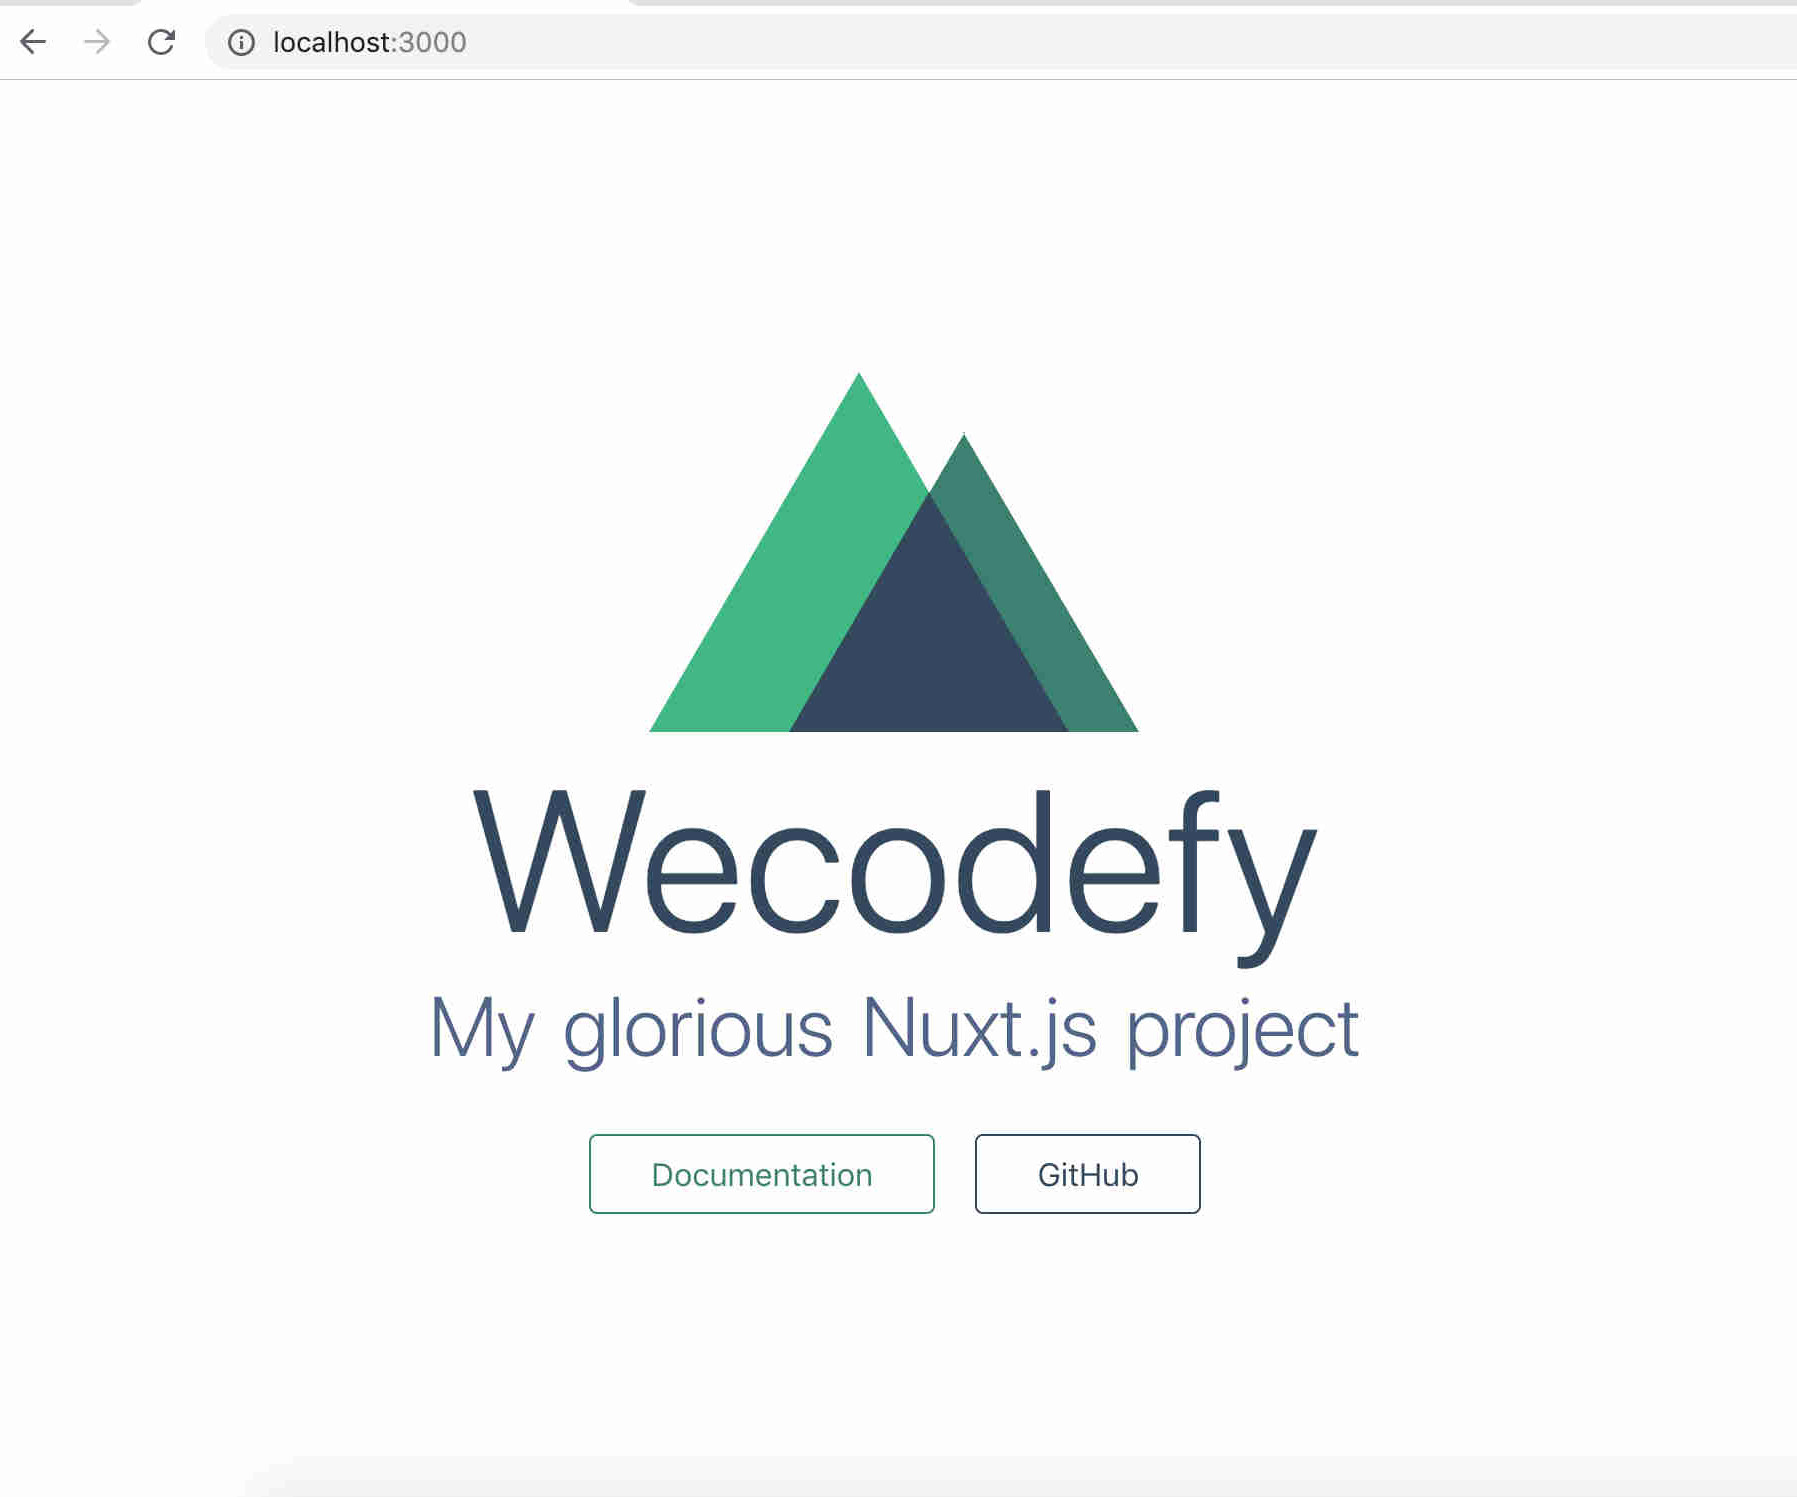
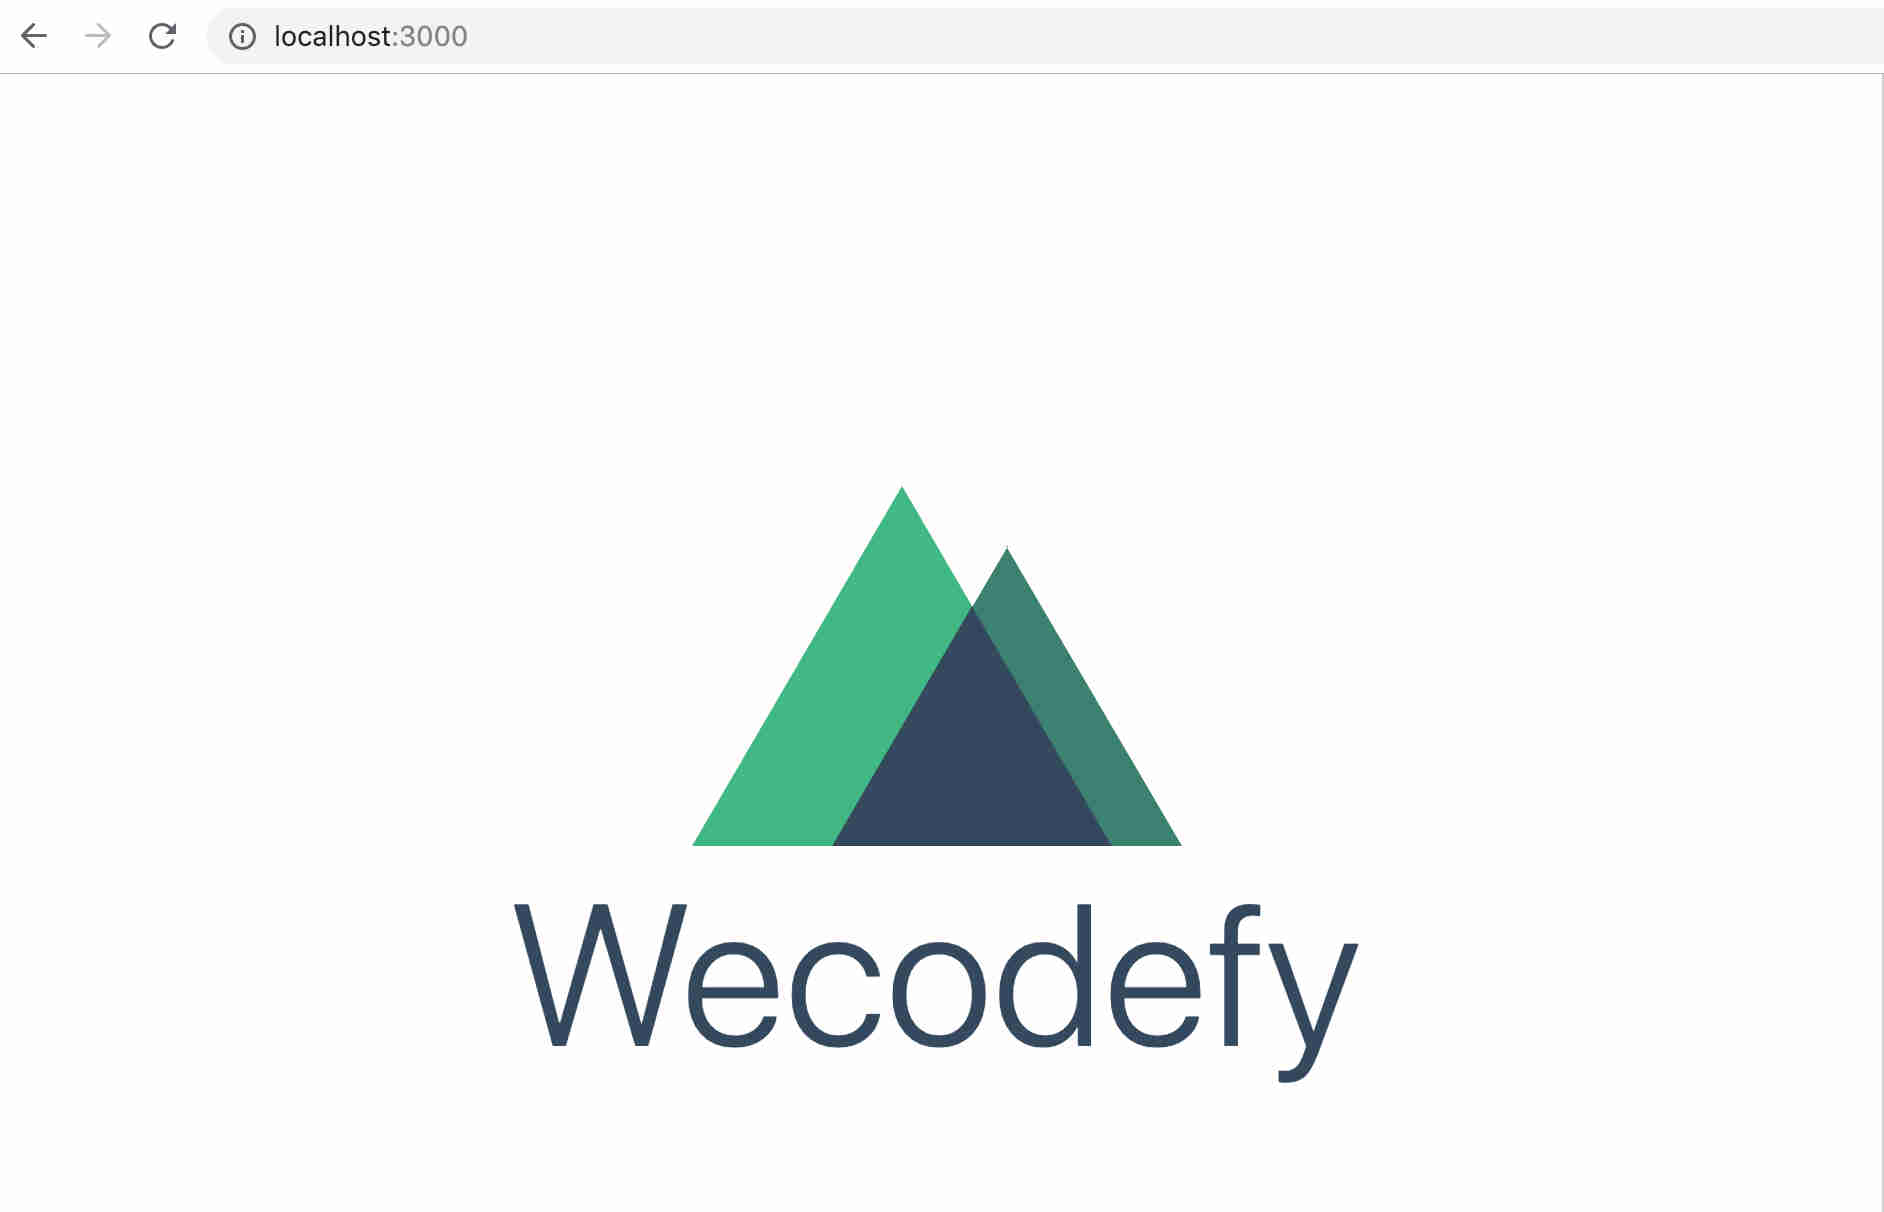
Installation workshop nuxt1

diff --git a/pages/index.vue b/pages/index.vue
@@ -1,82 +1,20 @@
 <template>
   <section class="container">
     <div>
-      <img src="~/assets/images/wecodefy-logo.png" >
+      <logo/>
       <h1 class="title">
-        Tu música en resumen
+        Wecodefy
       </h1>
-      <div class="links">
-        <a
-          href="https://nuxtjs.org/"
-          target="_blank"
-          class="button--green">Documentation</a>
-        <a
-          href="https://github.com/nuxt/nuxt.js"
-          target="_blank"
-          class="button--grey">GitHub</a>
-      </div>
     </div>
   </section>
 </template>
 
 <script>
-const SpotifyWebApi = require('spotify-web-api-js');
-const spotifyApi = new SpotifyWebApi()
+import Logo from '~/components/Logo.vue'
 
 export default {
-
-  mounted() {
-    // https://gist.github.com/igorPhelype/68239ecab9afcc50230ce0c61c3bac2f
-    const callback_url = window.location.href
-    const client_id = '9ce0744ff4a04334966cbcf3fb7e312d'
-    const api_url = `https://accounts.spotify.com/authorize?client_id=${client_id}&response_type=token&redirect_uri=${callback_url}`;
-    let access_token
-    let hash
-    if(!window.location.hash) {
-        window.location.replace(api_url)
-    } else {
-        const url = window.location.href
-        hash = url.split('#')[1]
-        hash = hash.split('&')[0]
-        hash = hash.split('=')[1]
-    }
-    access_token = hash
-    if (access_token) {
-      spotifyApi.setAccessToken(access_token)
-    }
-    // Get Elvis' albums (initial test)
-    spotifyApi.getArtistAlbums('43ZHCT0cAZBISjO8DG9PnE').then(
-      function(data) {
-        console.log('Artist albums', data.items)
-      },
-      function(err) {
-        console.error(err)
-      }
-    )
-    // Get my top Artists
-    spotifyApi.getMyTopArtists({
-      limit: 5,
-      time_range: 'medium_term'
-    }).then(
-      function(data) {
-        console.log('getMyTopArtists', data)
-      },
-      function(err) {
-        console.error(err)
-      }
-    )
-    // Get my top tracks
-    spotifyApi.getMyTopTracks({
-      limit: 5,
-      time_range: 'medium_term'
-    }).then(
-      function(data) {
-        console.log('getMyTopTracks', data)
-      },
-      function(err) {
-        console.error(err)
-      }
-    )
+  components: {
+    Logo
   }
 }
 </script>
@@ -99,17 +37,5 @@ export default {
   font-size: 100px;
   color: #35495e;
   letter-spacing: 1px;
-}
-
-.subtitle {
-  font-weight: 300;
-  font-size: 42px;
-  color: #526488;
-  word-spacing: 5px;
-  padding-bottom: 15px;
-}
-
-.links {
-  padding-top: 15px;
 }
 </style>

diff --git a/README.md b/README.md
@@ -1,153 +1,49 @@
 # Taller Nuxt
 
+> Pasos y código para crear una aplicación web con Nuxt.js.
+
+En este taller se va a crear una aplicación similar a [Spotify Wrapped](https://spotifywrapped.com/es/), mostrándote tus canciones y artistas más escuchados en Spotify. Para ello se van a adaptar estas 3 páginas:
+
+![Imagen página inicial desktop](md-images/home-desktop-hover.button.jpg?raw=true)
+
+![Imagen página 4/8](md-images/4-8-desktop.jpg?raw=true)
+
+![Imagen página 8/8](md-images/8-8-desktop.jpg?raw=true)
+
+## Pasos:
+
+- Paso 1) Creación del layout de la aplicación con datos ficticios.
+- Paso 2) Conexión con el API de Spotify para recoger datos reales.
+- Paso 3) Despliegue de la aplicación.
+
 ## Previo al taller
 
-En el taller realizaremos 3 pasos:
+### 1) Crear una aplicación en Spotify
+- Visitar https://developer.spotify.com/dashboard/.
+- Iniciar sesión con tu cuenta de Spotify y crear un `Client ID`. Copiar el Client ID para usarlo en el taller.
+- Editar settings dentro de la aplicación creada y añadir como Redirect URIs: `http://localhost:3000/`
+- Guardar los cambios.
 
-1. Creación de aplicación sin conectar a ningún API.
-2. Conexión a API Spotify para recoger datos reales.
-3. Despliegue de la aplicación para comprobar SEO y meta tags al compartir la aplicación en Twitter.
+### 2)  Instalar herramientas
+- Instalar [npm](https://www.npmjs.com/get-npm).
+- Crear cuenta en [GitHub](https://github.com/).
+- Instalar [Git](https://tutorial.djangogirls.org/es/installation/#instalar-git).
+- Instalar un editor de código (ej. [Visual Studio Code](https://code.visualstudio.com/)). Instalar extensión [Vetur](https://github.com/vuejs/vetur) o similar para programar con Vue.
+- Instalar la extensión de Chrome [Vue.js devtools](https://chrome.google.com/webstore/detail/vuejs-devtools/nhdogjmejiglipccpnnnanhbledajbpd?hl=en).
 
-Puedes instalarte sólo lo necesario para el primer paso, con ello tendrás una idea de cómo crear una aplicación con Nuxt. El resto de pasos nos servirán para ver casos de uso con Nuxt.
+### 3) Bajar el proyecto
+- Clonar el repositorio en local: `git clone https://github.com/cristinafsanz/taller-nuxt.git`
+- Entrar en el proyecto: `cd taller-nuxt`
+- Situarse en la rama de inicio del taller: `git checkout nuxt1`
+- Instalar las dependencias: `npm install`
 
-### Instalación Paso 1
+### 4)  Arrancar la aplicación
+- Arrancar el servidor: `npm run dev`
+- Abrir la aplicación en el navegador: http://localhost:3000
+- Deberías ver una aplicación como ésta:
 
-- Tener instalado [npx](https://www.npmjs.com/package/npx) o [yarn](https://yarnpkg.com/en/). Yo usaré el primero para el taller.
+![Página inicial](md-images/home-page.jpg?raw=true)
 
-- Tener instalado un editor de código (ej. [Visual Studio Code](https://code.visualstudio.com/)). Recomendable instalar extensión [Vetur](https://github.com/vuejs/vetur) o similar para ayudar al programar en Vue.
+### Nota
 
-- Recomendable: Tener instalada la extensión de Chrome [Vue.js devtools](https://chrome.google.com/webstore/detail/vuejs-devtools/nhdogjmejiglipccpnnnanhbledajbpd?hl=en).
-
-#### Crear la aplicación
-
-Se va a usar la herramienta de scaffolding [create-nuxt-app](https://nuxtjs.org/guide/installation/#using-code-create-nuxt-app-code-).
-
-- Ejecutar:
-
-  ```
-  $ npx create-nuxt-app Wecodefy
-  ```
-
-- Ejemplo de elecciones al crear el proyecto:
-    ```
-    - Project name: Wecodefy
-    - Project description: My glorious Nuxt.js project
-    - Use a custom server framework: none
-    - Use a custom UI framework: none
-    - Choose rendering mode: Universal
-    - Use axios module: no
-    - Use eslint: yes
-    - Use prettier: no
-    - Author name: Cristina Fernández
-    - Choose a package manager: npm
-    ```
-
-- Situarse en el proyecto y comprobar que arranca correctamente:
-
-    ```
-    $ cd Wecodefy
-    $ npm run dev
-    ```
-
-- Abrir el navegador: http://localhost:3000
-
-- Se debería ver una página de inicio parecida a ésta:
-
-![Imagen página inicio con título y logo](md-images/home-page.jpg?raw=true)
-
-### Instalación Paso 2
-
-- Tener creada cuenta en Spotify (free o premium).
-
-- Ir al [Dashboard](https://developer.spotify.com/dashboard/) y crear un client ID.
-
-- Editar settings en el Dashboard y añadir como Redirect URIs: 'http://localhost:3000/'.
-
-#### Instalar [Spotify Web API JS]
-
-Instalar el paquete spotify-web-api-js en la raíz del proyecto.,
-
-  ```
-  $ npm install spotify-web-api-js --save
-  ```
-
-Probar que funciona la conexión con el API de Spotify en `pages/index.vue`:
-- En la sección `script` añadir importar librería de `spotify-web-api-js` y el código en la función mounted (cambiando el client ID por el tuyo):
-
-  ```js
-  const SpotifyWebApi = require('spotify-web-api-js');
-  const spotifyApi = new SpotifyWebApi()
-
-  export default {
-
-    mounted() {
-      // https://gist.github.com/igorPhelype/68239ecab9afcc50230ce0c61c3bac2f
-      const callback_url = window.location.href
-      const client_id = 'YOUR_CLIENT_ID'
-      const api_url = `https://accounts.spotify.com/authorize?client_id=${client_id}&response_type=token&redirect_uri=${callback_url}`;
-      let access_token
-      let hash
-      if(!window.location.hash) {
-          window.location.replace(api_url)
-      } else {
-          const url = window.location.href
-          hash = url.split('#')[1]
-          hash = hash.split('&')[0]
-          hash = hash.split('=')[1]
-      }
-      access_token = hash
-      if (access_token) {
-        spotifyApi.setAccessToken(access_token)
-      }
-      // Get Elvis' albums (initial test)
-      spotifyApi.getArtistAlbums('43ZHCT0cAZBISjO8DG9PnE').then(
-        function(data) {
-          console.log('Artist albums', data.items)
-        },
-        function(err) {
-          console.error(err)
-        }
-      )
-      // Get my top Artists
-      spotifyApi.getMyTopArtists({
-        limit: 5,
-        time_range: 'medium_term'
-      }).then(
-        function(data) {
-          console.log('getMyTopArtists', data)
-        },
-        function(err) {
-          console.error(err)
-        }
-      )
-      // Get my top tracks
-      spotifyApi.getMyTopTracks({
-        limit: 5,
-        time_range: 'medium_term'
-      }).then(
-        function(data) {
-          console.log('getMyTopTracks', data)
-        },
-        function(err) {
-          console.error(err)
-        }
-      )
-    }
-  }
-  ```
-
-- En localhost:3000 deberías ver en la consola:
-
-  ```
-  Artist albums (20) [{…}, {…}, {…}, {…}, {…}, {…}, {…}, {…}, {…}, {…}, {…}, {…}, {…}, {…}, {…}, {…}, {…}, {…}, {…}, {…}]
-  getMyTopArtists {items: Array(5), total: 11, limit: 5, offset: 0, href: "https://api.spotify.com/v1/me/top/artists?limit=5&offset=0", …}
-  getMyTopTracks {items: Array(5), total: 50, limit: 5, offset: 0, href: "https://api.spotify.com/v1/me/top/tracks?limit=5&offset=0", …}
-  ```
-
-![Imagen consola JS](md-images/spotify-test.jpg?raw=true)
-
-Un ejemplo de la prueba de Spotify API se encuentra en la rama [nuxt0](https://github.com/cristinafsanz/taller-nuxt/tree/nuxt0).
-
-### Instalación Paso 3
-
-- Tener cuenta en [GitHub](https://github.com/) y [Git](https://tutorial.djangogirls.org/es/installation/#instalar-git) instalado.
+Para crear la aplicación se usó la herramienta de scaffolding [create-nuxt-app] y el paquete npm `spotify-web-api-js`. Puede verse la explicación de la instalación completa justo con una prueba de la API de Spotify en el [README](https://github.com/cristinafsanz/taller-nuxt/blob/nuxt0/README.md) de la rama `nuxt0`.

diff --git a/SPOTIFY-API.md b/SPOTIFY-API.md
@@ -59,12 +59,6 @@ spotifyApi.getMyTopTracks({
 
 Cambiar "time_range" para coger 6 meses y el último mes.
 
-## Adaptar estas páginas
 
-![Imagen página inicial desktop](md-images/home-desktop-hover.button.jpg?raw=true)
-
-![Imagen página 4/8](md-images/4-8-desktop.jpg?raw=true)
-
-![Imagen página 8/8](md-images/8-8-desktop.jpg?raw=true)
 
 
